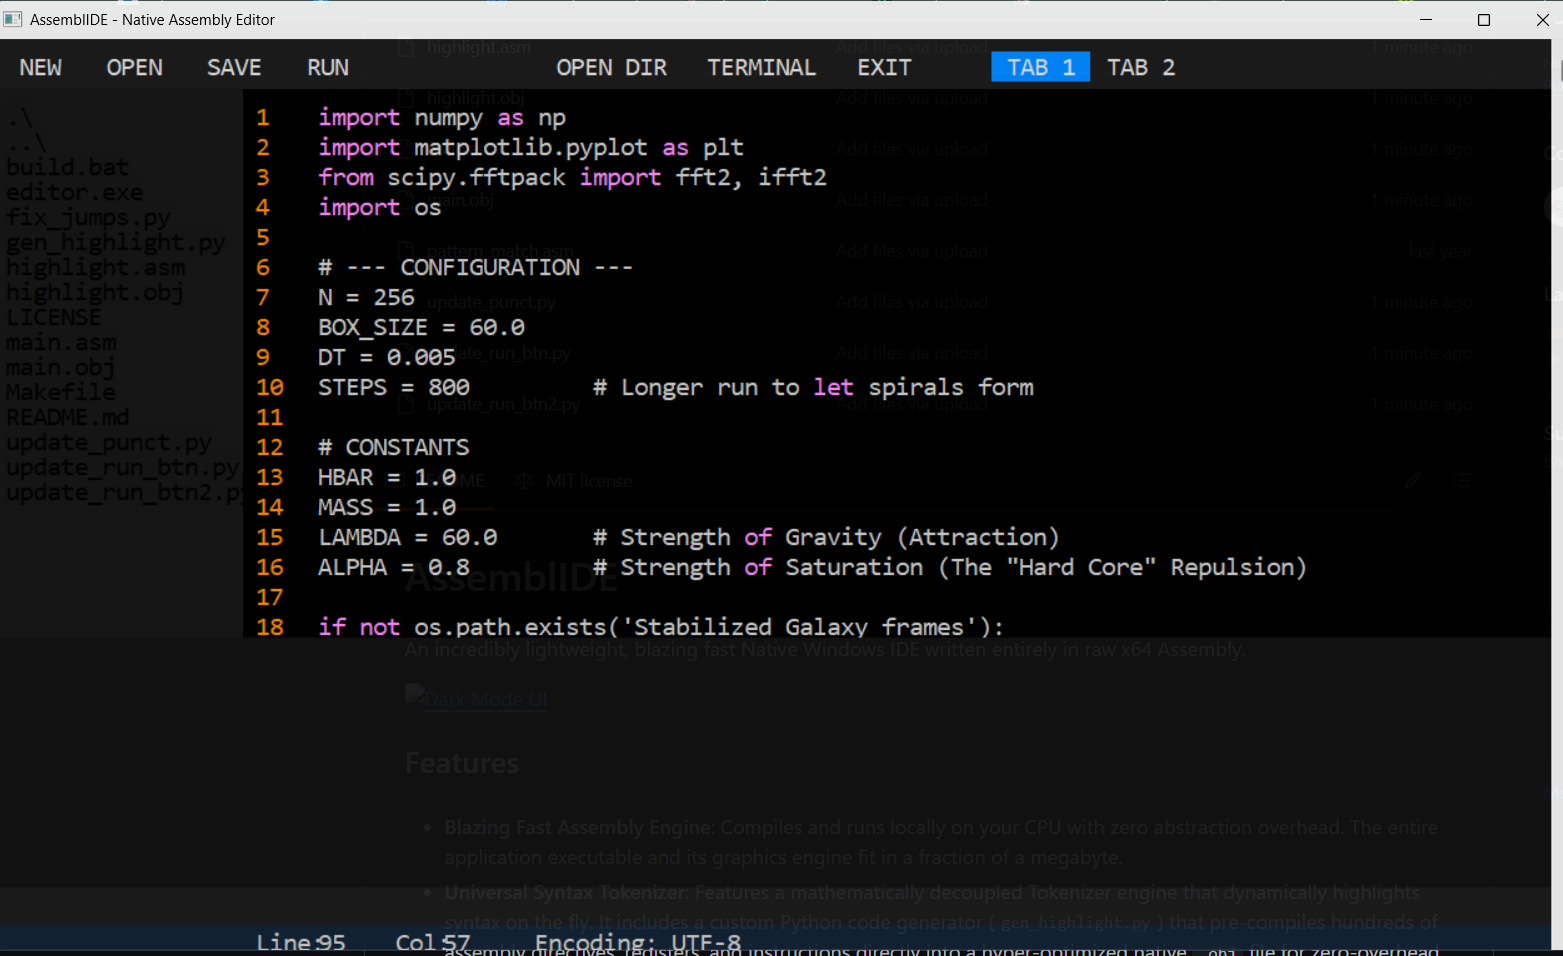
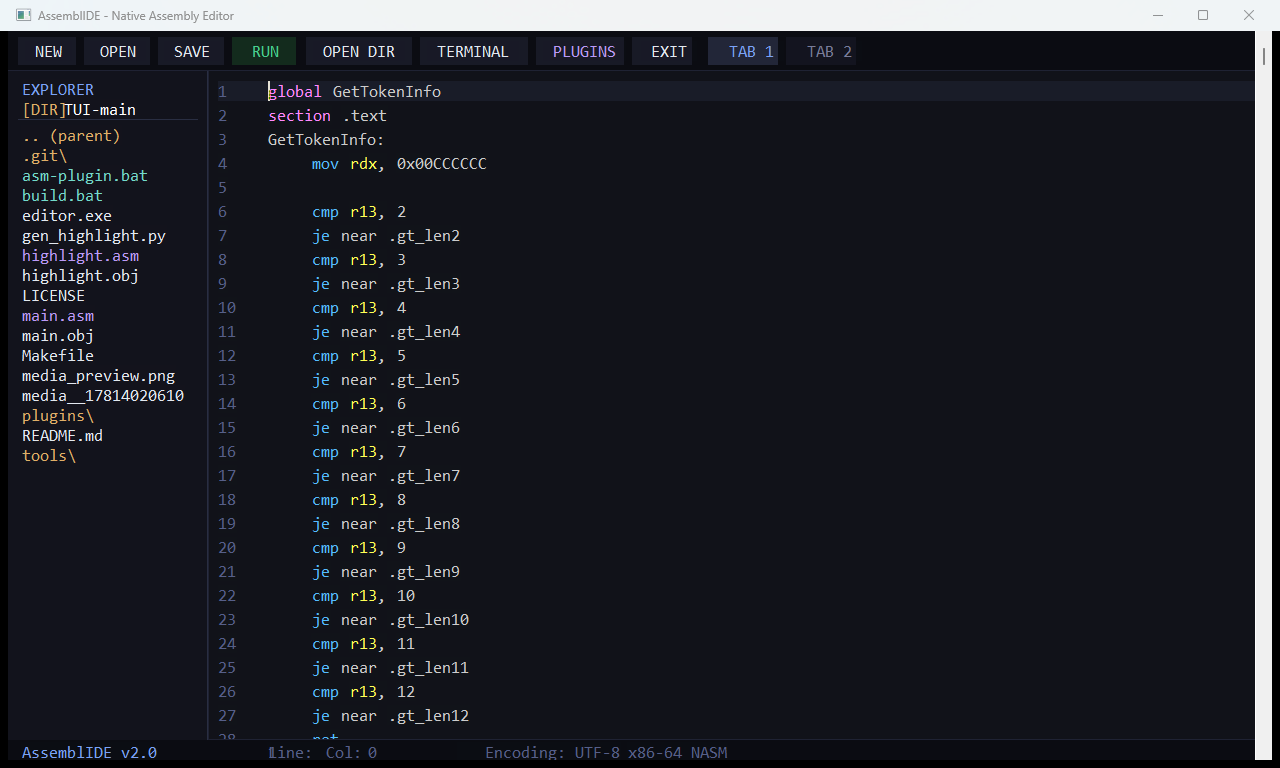
docs: update UI screenshot in README showcasing modern Tokyo Night theme and syntax highlighting

Changed region(s): [[0.0, 0.0, 1.0, 1.0], [0.375, 0.375, 0.6562, 0.4375], [0.7188, 0.5625, 0.8438, 0.625]]

diff --git a/README.md b/README.md
@@ -2,7 +2,7 @@
 
 A lightweight, high-performance native desktop code editor written in pure **x86-64 NASM Assembly** for Windows, built directly on Win32 and GDI APIs with zero C runtime (CRT) overhead.
 
-![Dark Mode UI](media__1781402061073.png)
+![AssemblIDE Dark Mode UI](media_preview.png)
 
 ---
 
